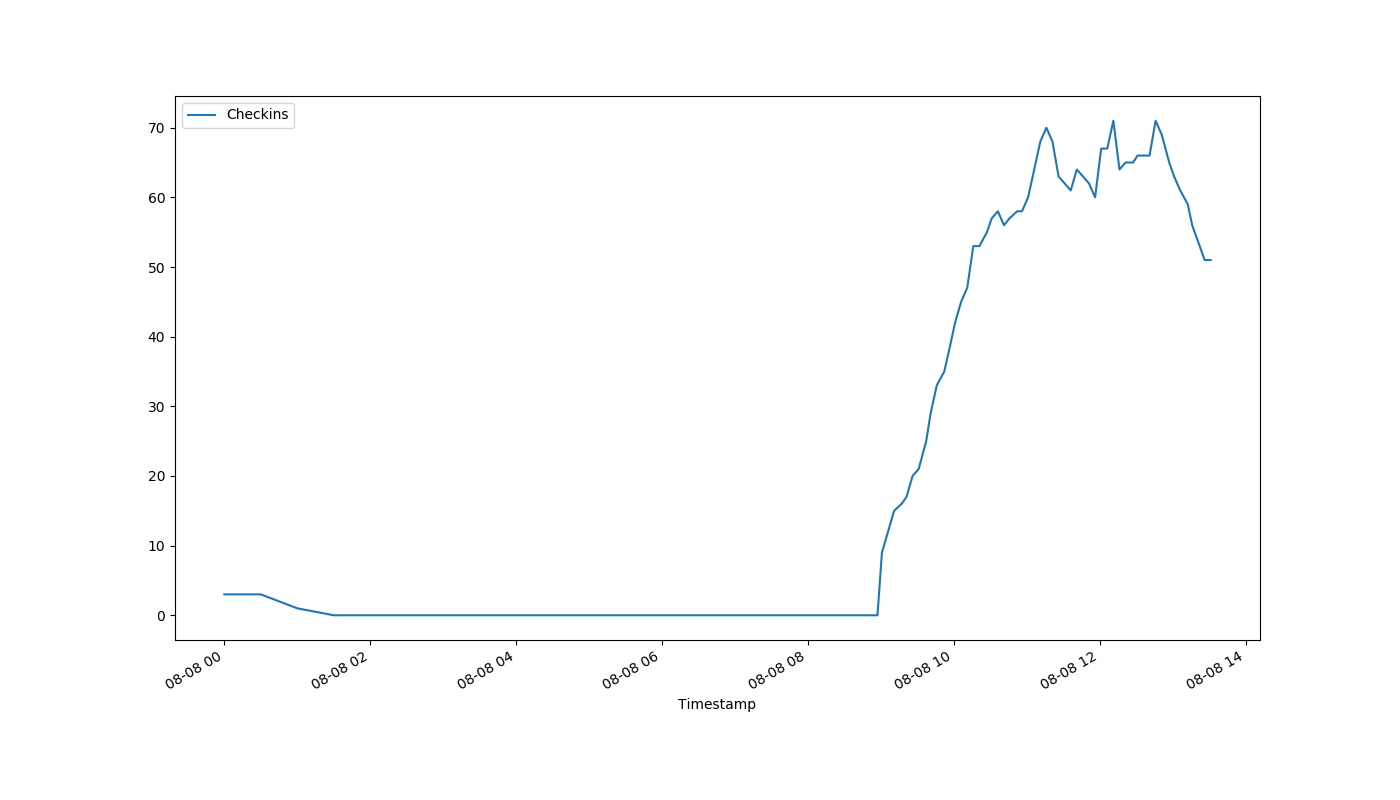
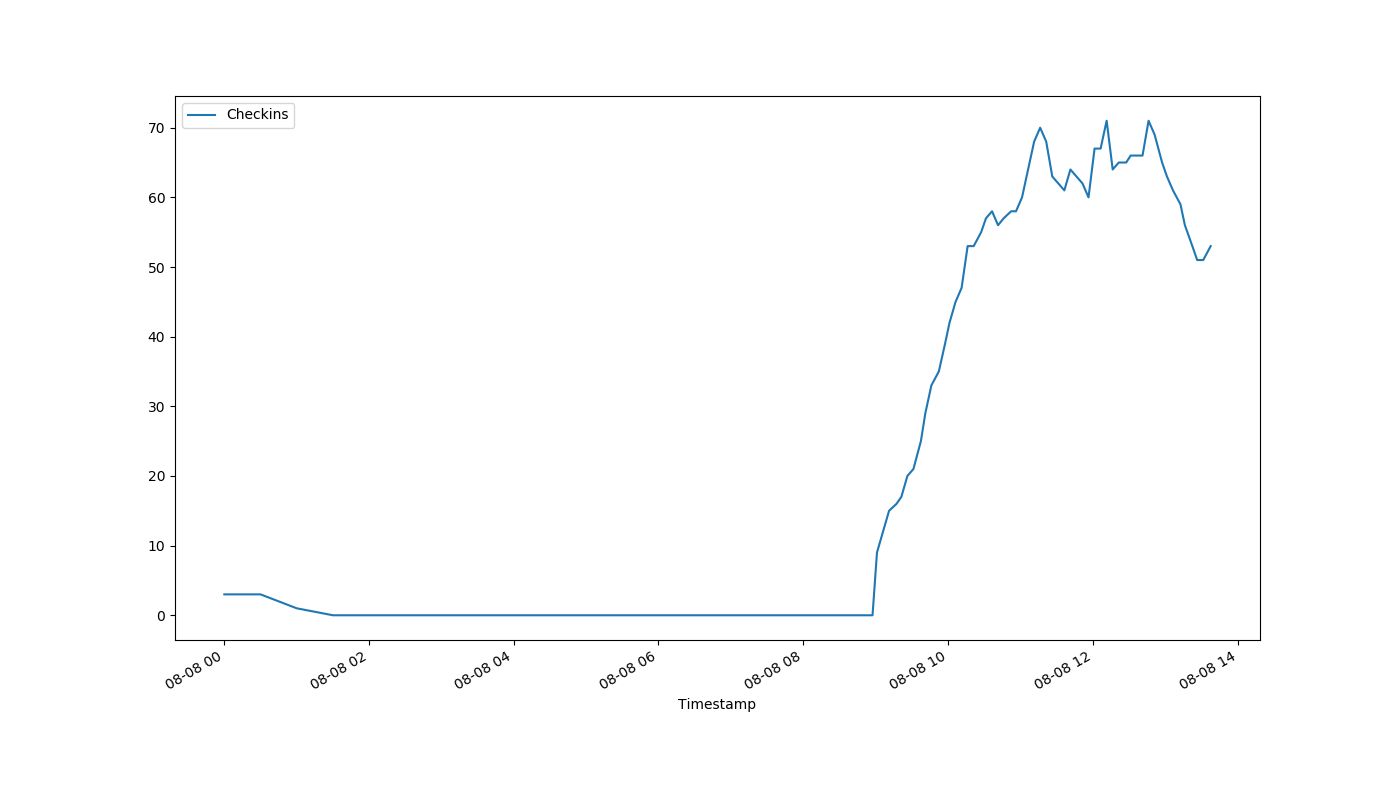
auto-Aug-08-13:39:28

diff --git a/index.html b/index.html
@@ -1,1 +1,1 @@
-<!DOCTYPE html><html><head><meta http-equiv="refresh" content="30"><link rel='stylesheet' href='holmcurrent.css'></head><body><p id='count'>51</p><div id='graph-wrap'><img id='graph' src='holmgraph-Aug-08.png'></div><p id='updated'>Last updated 13:32:14 / 13:31:16</p></body></html>
+<!DOCTYPE html><html><head><meta http-equiv="refresh" content="30"><link rel='stylesheet' href='holmcurrent.css'></head><body><p id='count'>53</p><div id='graph-wrap'><img id='graph' src='holmgraph-Aug-08.png'></div><p id='updated'>Last updated 13:38:14 / 13:37:27</p></body></html>
